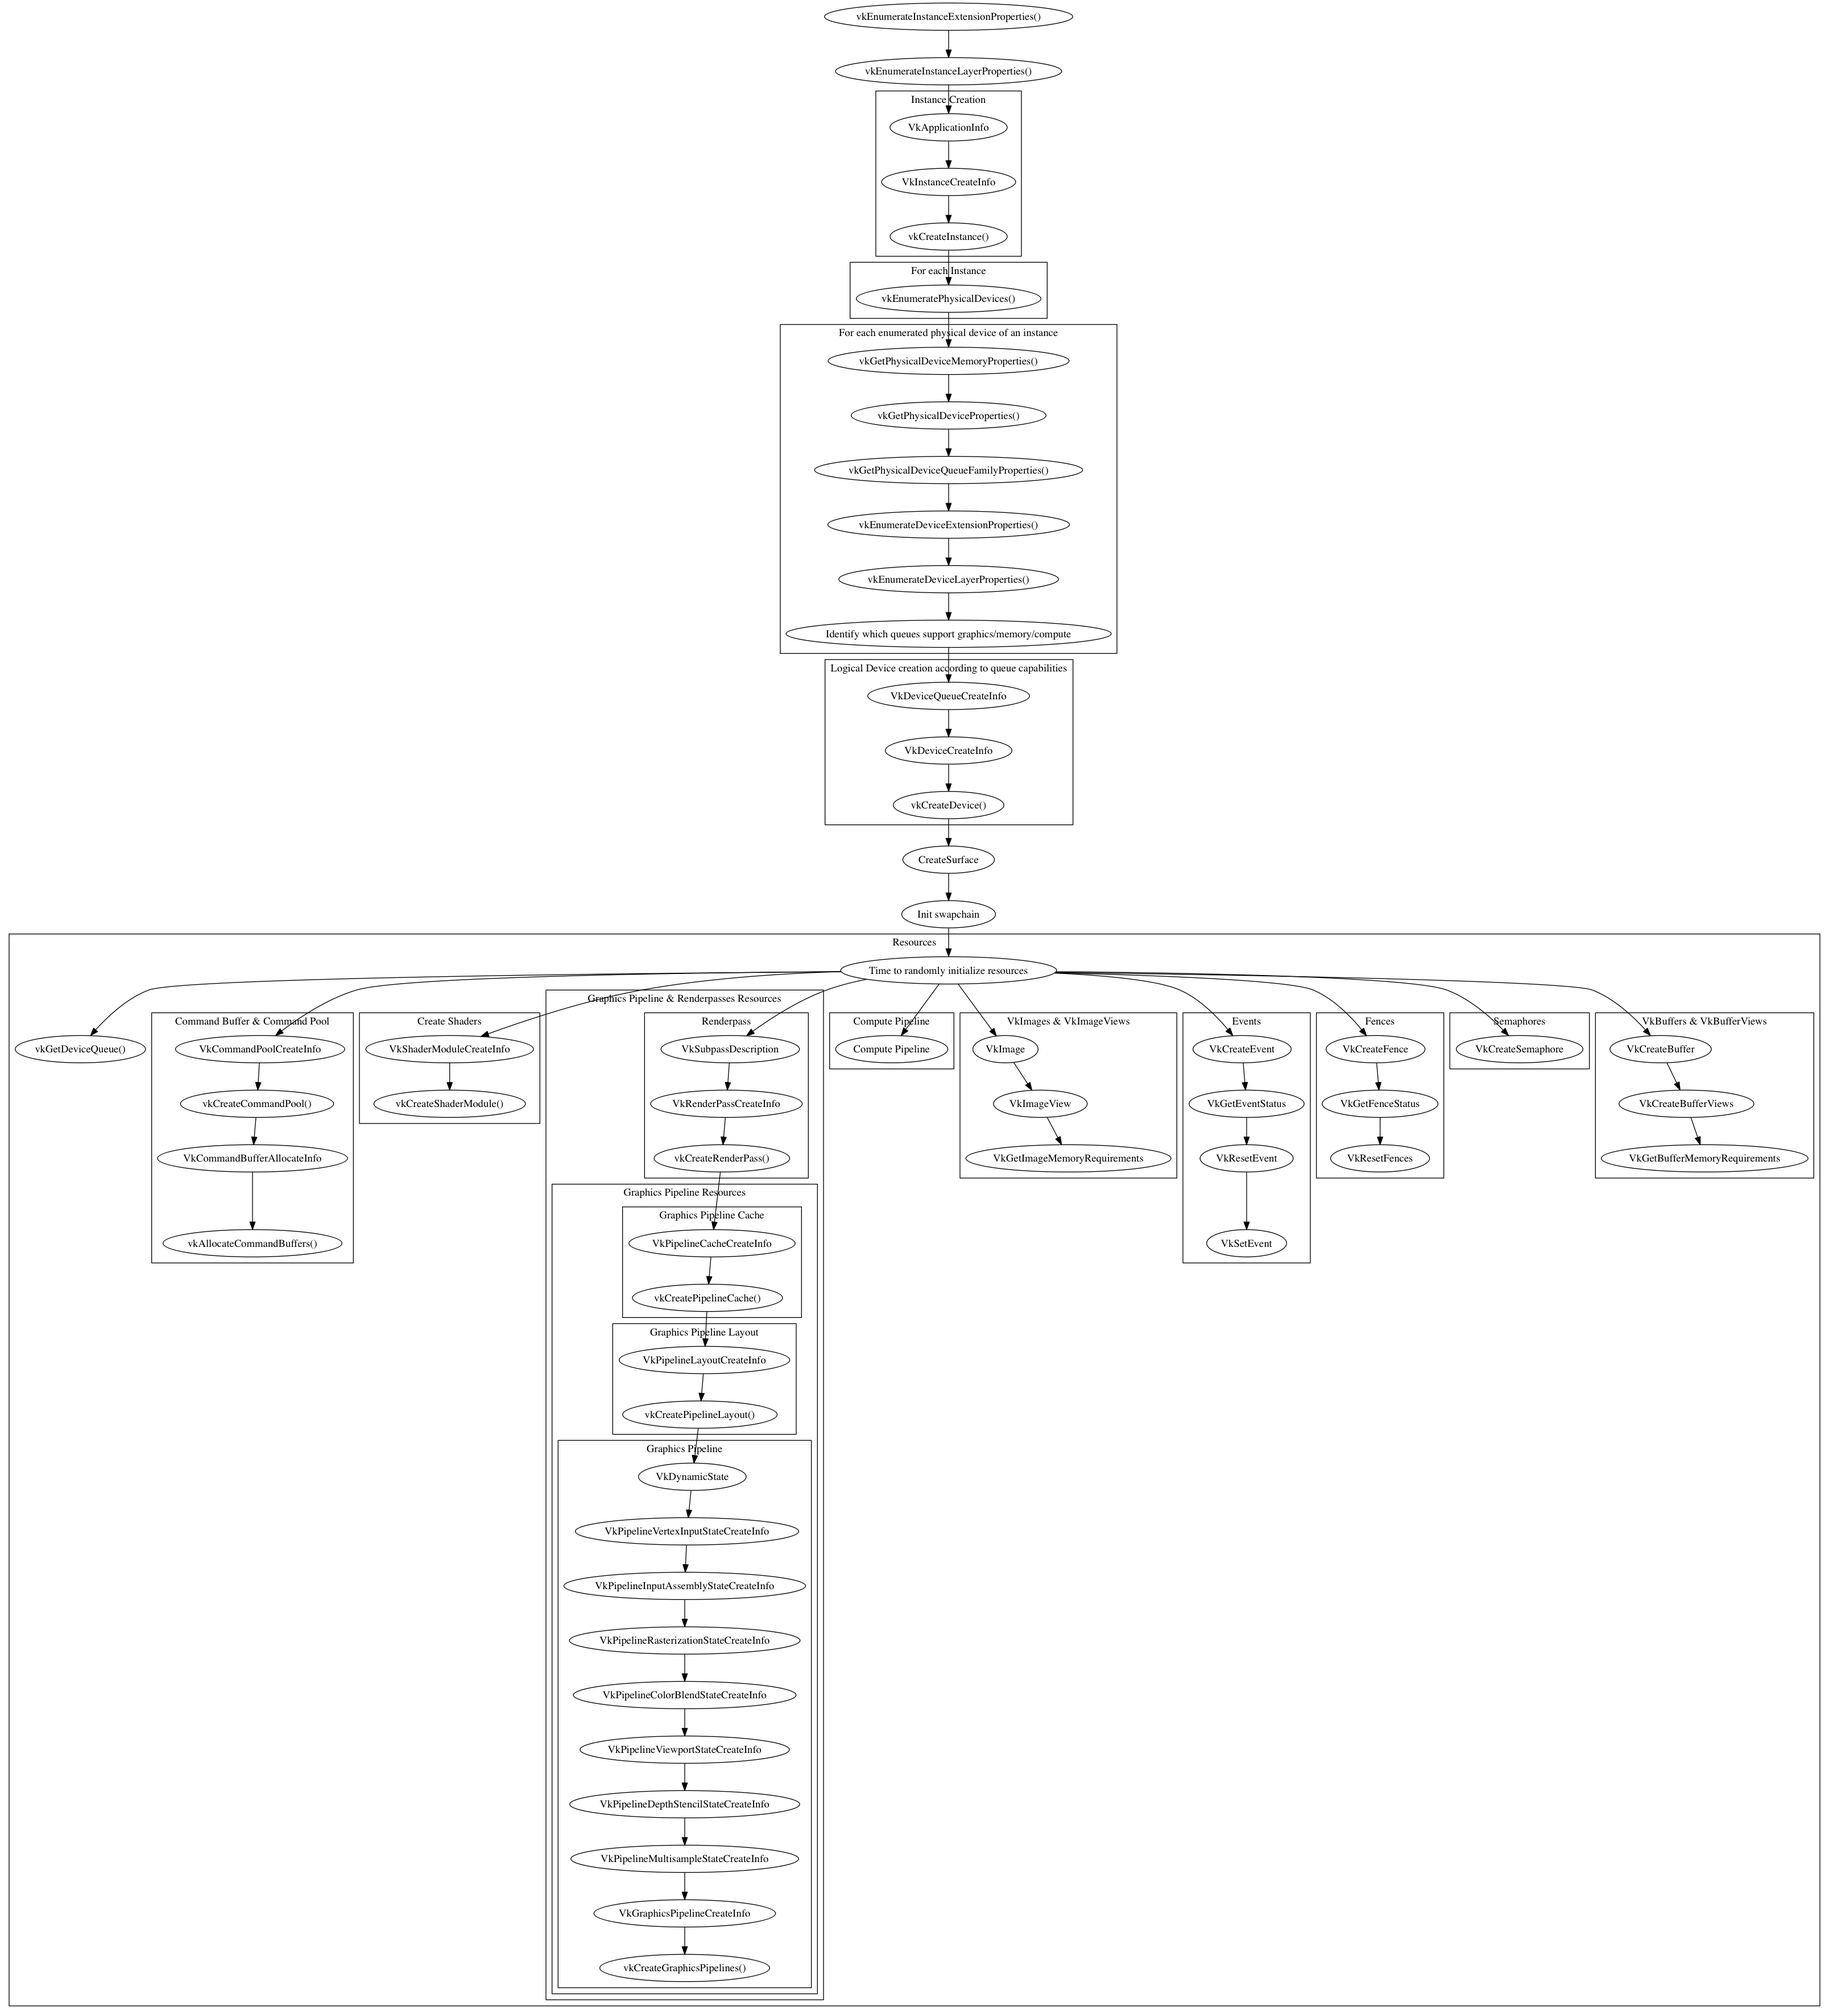
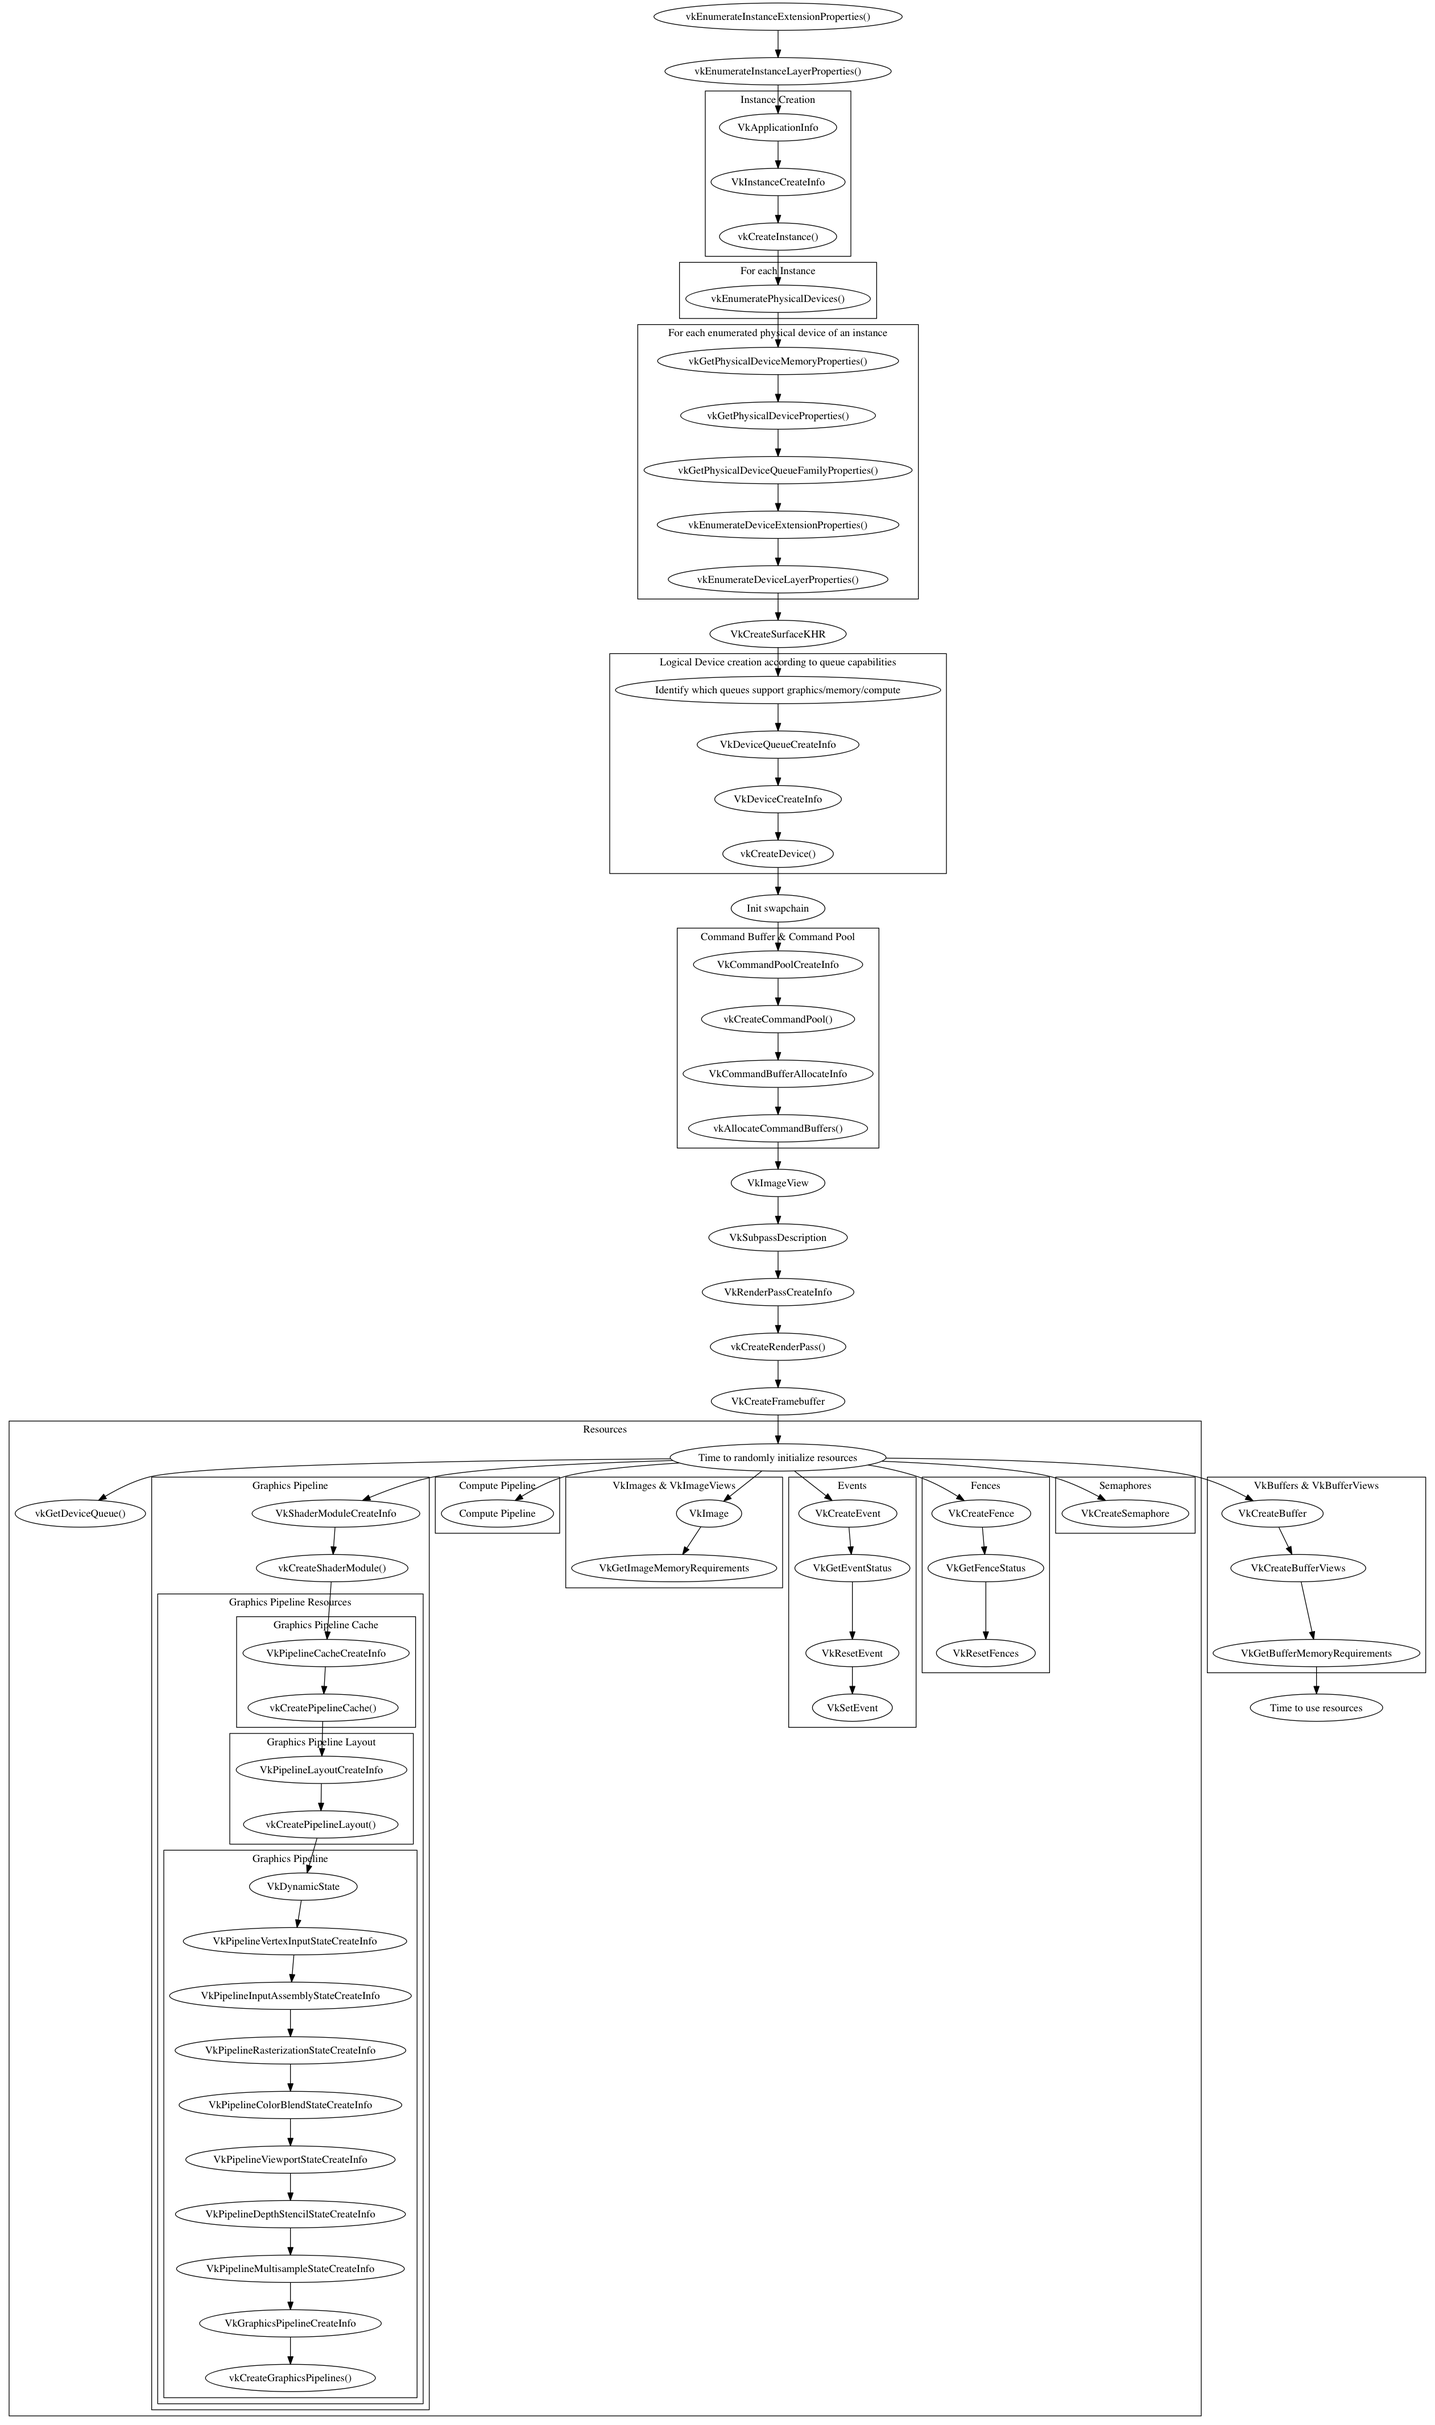
Reordered FSM. Added custom fuzzer buffer structs.

diff --git a/src/main/java/tool/fsm/vulkan/initializers/StatesInitializer.java b/src/main/java/tool/fsm/vulkan/initializers/StatesInitializer.java
@@ -106,7 +106,6 @@ public class StatesInitializer {
                 VulkanState.VK_CREATE_IMAGE,
                 VulkanState.VK_CREATE_BUFFER,
                 VulkanState.VK_CREATE_SHADER_MODULE,
-                VulkanState.DEALLOCATION
         };
 
         defineTransition(TransitionType.REPEATING,
@@ -165,18 +164,6 @@ public class StatesInitializer {
                 randomStates);
 
         defineTransition(TransitionType.REPEATING,
-                VulkanState.VK_CREATE_BUFFER,
-                VulkanState.VK_CREATE_BUFFER_VIEW);
-
-        defineTransition(TransitionType.REPEATING,
-                VulkanState.VK_CREATE_BUFFER_VIEW,
-                VulkanState.VK_GET_BUFFER_MEMORY_REQUIREMENTS);
-
-        defineTransition(TransitionType.REPEATING,
-                VulkanState.VK_GET_BUFFER_MEMORY_REQUIREMENTS,
-                randomStates);
-
-        defineTransition(TransitionType.REPEATING,
                 VulkanState.VK_CREATE_IMAGE,
                 VulkanState.VK_GET_IMAGE_MEMORY_REQUIREMENTS);
 
@@ -203,6 +190,18 @@ public class StatesInitializer {
         defineTransition(TransitionType.REPEATING,
                 VulkanState.VK_CREATE_GRAPHICS_PIPELINES,
                 randomStates);
+
+        defineTransition(TransitionType.REPEATING,
+                VulkanState.VK_CREATE_BUFFER,
+                VulkanState.VK_CREATE_BUFFER_VIEW);
+
+        defineTransition(TransitionType.REPEATING,
+                VulkanState.VK_CREATE_BUFFER_VIEW,
+                VulkanState.VK_GET_BUFFER_MEMORY_REQUIREMENTS);
+
+        defineTransition(TransitionType.REPEATING,
+                VulkanState.VK_GET_BUFFER_MEMORY_REQUIREMENTS,
+                VulkanState.DEALLOCATION);
 
         defineTransition(TransitionType.SEQUENTIAL,
                 VulkanState.DEALLOCATION,

diff --git a/src/main/resources/dependencies/vulkan/FuzzerData.hpp b/src/main/resources/dependencies/vulkan/FuzzerData.hpp
@@ -9,6 +9,12 @@ struct Vertex
     float r, g, b, a;                // Color
 };
 
+struct VertexBuffer
+{
+    VkBuffer buffer;
+    VkDeviceMemory deviceMemory;
+};
+
 const Vertex triData[] =
 {
     { XYZ1( -0.25, -0.25, 0 ), XYZ1( 1.f, 0.f, 0.f ) },
